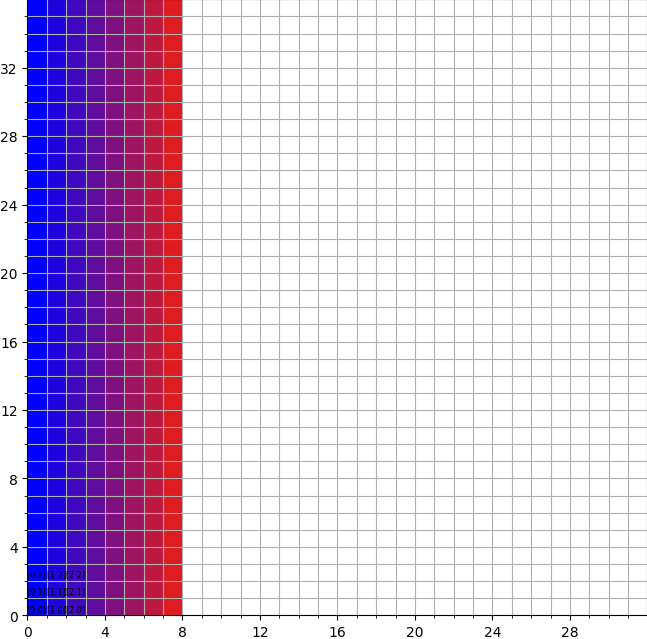
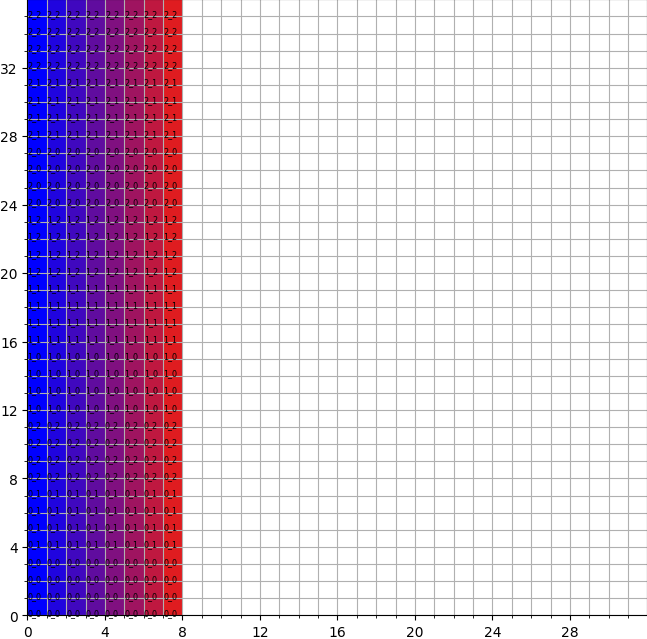
make window shift through the mapping

Changed region(s): [[0.0309, 0.5352, 0.2782, 0.9812], [0.0309, 0.0, 0.2782, 0.3271]]

diff --git a/coordinate_IMC.py b/coordinate_IMC.py
@@ -6,28 +6,37 @@ import os
 
 plt.rcdefaults()
 fig, ax = plt.subplots()
-# Major ticks every 20, minor ticks every 5
-major_x_ticks = np.arange(0, 32, 4)
-minor_x_ticks = np.arange(0, 32, 1)
-major_y_ticks = np.arange(0, 36, 4)
-minor_y_ticks = np.arange(0, 36, 1)
 
-image_data = []
+
+image_shape = []
 
 x_axis = np.arange(0, 32, 1)
 y_axis = np.arange(0, 36, 1)
 
 
-image_data = np.array([(i, h)for h in range(30) for i in range(30)])
+image_shape = np.array([(i, h)for h in range(30) for i in range(30)])
 
 class Conv_image(object):
-    def __init__(self, image_data=[],  inch_num=0, outch_num=0, conv_scale=3):
+    def __init__(self, _fig, _ax, image_shape=[],  inch_num=0, outch_num=0, conv_scale=3, window_drift = 0):
+        """
+        Conv layer weight mapping
+        params fig: fig object from matplotlib
+        params ax: axis object from matplotlib
+        params image_shape: array of indexs with size initalized as image input
+        params inch_num: input channel number
+        params outch_num: output channel number
+        params conv_scale: scale of convolution kernel
+        """
+        self._fig = _fig
+        self._ax = _ax
         self.inch_num = inch_num
         self.out_num = outch_num
-        self.image_data = np.repeat(image_data,self.inch_num)
+        self.image_shape = np.repeat(image_shape,self.inch_num)
         self.conv_scale = conv_scale
-        self.xlim = 32
-        self.ylim = 36
+        self.window_drift = window_drift
+        self.xlim = 32 * 1
+        self.ylim = 36 * 1
+        self.output_scale = self.image_shape - self.conv_scale + 1
 
     def kernel_shape(self, start):
         """
@@ -42,17 +51,27 @@ class Conv_image(object):
         """
         return coordinates with 36x32 and ticks, ax objects
         """
-        # self.image_data = np.reshape(self.image_data, (36, 32, 2))
-        ax.set_xlim(0, 32)
-        ax.set_ylim(0, 36)
 
-        ax.set_xticks(major_x_ticks)
-        ax.set_xticks(minor_x_ticks, minor=True)
-        ax.set_yticks(major_y_ticks)
-        ax.set_yticks(minor_y_ticks, minor=True)
-        ax.grid(which='both')
 
-        return self.image_data, ax
+        # Major ticks every 20, minor ticks every 5
+        major_x_ticks = np.arange(self.xlim* self.window_drift, (1+self.window_drift)*self.xlim, 4)
+        minor_x_ticks = np.arange(self.xlim* self.window_drift, (1+self.window_drift)*self.xlim, 1)
+
+        major_y_ticks = np.arange((self.ylim-(self.ylim-self.xlim) * self.conv_scale)*self.window_drift,
+                                  (1+self.window_drift)*self.ylim - (self.ylim-self.xlim) * self.conv_scale*self.window_drift, 4)
+        minor_y_ticks = np.arange((self.ylim-(self.ylim-self.xlim) * self.conv_scale)*self.window_drift,
+                                  (1+self.window_drift)*self.ylim - (self.ylim-self.xlim) * self.conv_scale*self.window_drift, 1)
+
+        self._ax.set_xlim([self.window_drift*self.xlim,
+                          self.xlim*(1 + self.window_drift)])
+
+        self._ax.set_ylim([(self.ylim-(self.ylim-self.xlim) * self.conv_scale)*self.window_drift,
+                          (1+self.window_drift)*self.ylim-(self.ylim-self.xlim) * self.conv_scale*self.window_drift])
+        self._ax.set_xticks(major_x_ticks)
+        self._ax.set_xticks(minor_x_ticks, minor=True)
+        self._ax.set_yticks(major_y_ticks)
+        self._ax.set_yticks(minor_y_ticks, minor=True)
+        self._ax.grid(which='both')
 
     def decide_scan_num(self):
         """
@@ -62,53 +81,70 @@ class Conv_image(object):
         row_num = int(self.xlim/self.out_num)
         return min(column_num, row_num)
 
-    def draw_weights(self, xmin, xwidth, ymin, yheight, drift, kernel=[], colors=[0, 0, 0]):
+    def draw_weights(self, xmin, xwidth, ymin, yheight, colors=[0, 0, 0]):
         """
-
         :param loc: location of one 1*9 weights
-        :param drift: it is for drift in y_aix, the x_axis drift is decided already in loc
+        :param xmin ymin: start loction of x and y
+        :param xwidth, yheight: extend length on x and y
+        :param color: normalized value of RGB
         """
-        h_drift = int(drift)
-        ax.broken_barh([(xmin[0], xwidth), (xmin[1], 0)],
+        self._ax.broken_barh([(xmin[0], xwidth)],
                        (ymin, yheight), facecolors=colors)
 
 
 
     def draw_image(self):
+        """
+        main process to draw the image
+        return None
+        """
         # And a corresponding grid
-        self.image_data, ax = self.initialize_image()
-        scan_num = self.decide_scan_num()
-        locations = image_data[0:scan_num]
-        for h in range(len(locations)):
-            kernel =self.kernel_shape(locations[h])
-            kernel = np.repeat(kernel, 2, axis=0)
-            for i in range(int(self.out_num)):
-                each_loc = kernel[0]*self.out_num
-                each_loc[0] +=i
-                drift = kernel[0][0]*self.inch_num
+        #modify ax and fig
+        self.initialize_image()
+        scan_num = self.decide_scan_num()   #scan_num is how many times a bundle of mapping can be mapped
+        # point to the upper left corner of kernel
+        locations = image_shape[scan_num * self.window_drift\
+            :scan_num*(1+self.window_drift)]
+        # print("kernel[0] ", self.kernel_shape(locations[0]))
+        # print("kernel[len(locations)-1] ", self.kernel_shape(locations[len(locations)-1]))
+        for h in range(len(locations)):  # for each scanning time, map a bundle of kernels
+            kernel =  self.kernel_shape(locations[h])   #create 1*n**2 array of kenel mapping
+            kernel = np.repeat(kernel, self.inch_num, axis=0)   # repeat the element by input channels
+            for i in range(int(self.out_num)):  # by output channels along x direction
+                each_loc = (kernel[0])*self.out_num   # decide the start location of mapping 1*n**2 without drift in y direction
+                each_loc[0] = self.window_drift*32 + h*self.out_num
+                each_loc[0] +=i # drift the location along x axis by the output channels
+                drift = (self.window_drift*scan_num+h)*self.inch_num * self.conv_scale  # drift along y axis,
+                print("drift", drift)
+                # print("kernel[0]: ", kernel[0])
+                # print("each_loc; ", each_loc)
                 self.draw_weights(xmin=each_loc,
                                     xwidth=1,
-                                    ymin=each_loc[1]+drift*self.conv_scale,
+                                    ymin=drift,
                                     yheight=self.inch_num * self.conv_scale**2,
-                                    drift=kernel[0][0]*self.inch_num,
-                                    kernel=kernel,
                                     colors=[(1 * i/self.out_num, i/self.out_num**2, 1-1*i/self.out_num)])
                 
-                for i in range(2*self.conv_scale**2):
-                    # for r in range(self.inch_num):
-                    ax.text(each_loc[0], each_loc[1]+drift*self.conv_scale + i,
+                for i in range(self.inch_num*self.conv_scale**2):
+                    self._ax.text(each_loc[0], drift + i,
                             '{}_{}'.format(kernel[i][0], kernel[i][1]), fontsize='xx-small') 
+                
+                # print("kernel[i][0]: ", kernel[i])
 
 
     def save_image(self, name=""):
-        fig.set_size_inches(8, 8)   
+        """
+        save image
+        :param name: name of string
+        """
+        self._fig.set_size_inches(8, 8)   
         fig_dir = './'
         fig_ext = '_{}_{}.png'.format(self.inch_num, self.out_num)
-        fig.savefig(os.path.join(fig_dir, name + fig_ext),
+        self._fig.savefig(os.path.join(fig_dir, name + fig_ext),
                     bbox_inches='tight', pad_inches=0)
 
 if __name__ == '__main__':
-    Conv1 = Conv_image(image_data=image_data, inch_num=2, outch_num=8, conv_scale=3)
+    Conv1 = Conv_image(_fig=fig, _ax=ax, image_shape=image_shape,
+                       inch_num=2, outch_num=8, conv_scale=3, window_drift=3)
     Conv1.draw_image()
     Conv1.save_image("coordinate_IMC")
 

diff --git a/draw_IMC.py b/draw_IMC.py
@@ -10,6 +10,12 @@ plt.rcdefaults()
 
 class Draw_IMC(object):
     def __init__(self, total_channels=[], input_sizes=[], MLP_ports=[]):
+        """
+        Create a weigh mapping of convolution
+        params tota_channels: array of Conv channels in sequence
+        params input_sizes: scale of input image
+        params MLP_ports: array of connection ports in Fully connected layer
+        """
         self.NumDots = 4
         self.NumConvMax = 8
         self.NumFcMax = 20
